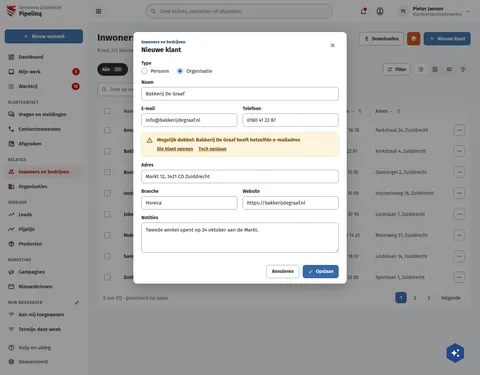
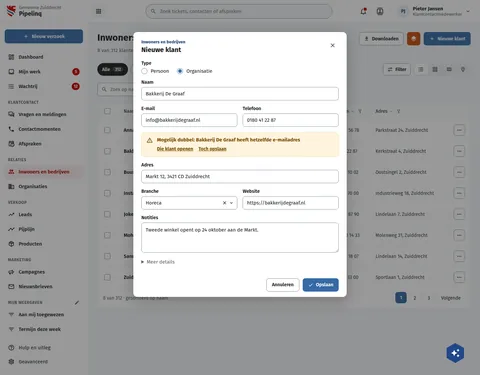
fix(screens): PqKlantNieuw draws Branche as a select and the Meer details disclosure
pl5 PqKlantNieuw 3/7. Live's Branche is a select (an array field: pick
one or more, or type a new one) with a chevron and a clear X; the board
drew a plain text field. Live also keeps the "Meer details" disclosure
under Notities. Users keep both, so the board draws them. The select
follows the optional selects on DqNieuweZaakDubbel (clear X, chevron).
Height unchanged (1124).

Assisted-by: ClaudeCode:claude-opus-5-5

Changed region(s): [[0.25, 0.704, 0.75, 0.792], [0.2812, 0.6747, 0.375, 0.704]]

diff --git a/preview/screens/boards/PqKlantNieuw.html b/preview/screens/boards/PqKlantNieuw.html
@@ -338,8 +338,9 @@ a{color:var(--sc-primary, #3669a5)}a:hover{color:var(--sc-primary-deep, #234a78)
           </div>
         </div>
         <div style="display: flex; flex-direction: column; gap: 6px; min-width: 0"><label for="pq-nc-address" style="font-size: 14px; font-weight: 600">Adres</label><input id="pq-nc-address" type="text" value="Markt 12, 3421 CD Zuiddrecht" placeholder="" style="width: 100%; height: 40px; box-sizing: border-box; padding: 0 12px; border: 1px solid var(--sc-work-field, #828a95); border-radius: 8px; font: 400 15px var(--sc-font, 'Fira Sans'), sans-serif; color: var(--sc-work-ink, #1b1c1d)"></div>
-        <div style="display: grid; grid-template-columns: repeat(auto-fit, minmax(240px, 1fr)); gap: 16px"><div style="display: flex; flex-direction: column; gap: 6px; min-width: 0"><label for="pq-nc-industry" style="font-size: 14px; font-weight: 600">Branche</label><input id="pq-nc-industry" type="text" value="Horeca" placeholder="" style="width: 100%; height: 40px; box-sizing: border-box; padding: 0 12px; border: 1px solid var(--sc-work-field, #828a95); border-radius: 8px; font: 400 15px var(--sc-font, 'Fira Sans'), sans-serif; color: var(--sc-work-ink, #1b1c1d)"></div><div style="display: flex; flex-direction: column; gap: 6px; min-width: 0"><label for="pq-nc-website" style="font-size: 14px; font-weight: 600">Website</label><input id="pq-nc-website" type="url" value="https://bakkerijdegraaf.nl" placeholder="" style="width: 100%; height: 40px; box-sizing: border-box; padding: 0 12px; border: 1px solid var(--sc-work-field, #828a95); border-radius: 8px; font: 400 15px var(--sc-font, 'Fira Sans'), sans-serif; color: var(--sc-work-ink, #1b1c1d)"></div></div>
+        <div style="display: grid; grid-template-columns: repeat(auto-fit, minmax(240px, 1fr)); gap: 16px"><div style="display: flex; flex-direction: column; gap: 6px; min-width: 0"><label id="pq-nc-industry-label" for="pq-nc-industry" style="font-size: 14px; font-weight: 600">Branche</label><div style="position: relative"><span id="pq-nc-industry" role="combobox" aria-expanded="false" aria-labelledby="pq-nc-industry-label" style="box-sizing: border-box; width: 100%; height: 40px; border: 1px solid var(--sc-work-field, #828a95); border-radius: 8px; background: #ffffff; font: 400 15px var(--sc-font, 'Fira Sans'), sans-serif; color: var(--sc-work-ink, #1b1c1d); display: flex; align-items: center; gap: 8px; padding: 0 56px 0 12px"><span style="min-width: 0">Horeca</span></span><button type="button" aria-label="Selectie wissen" style="position: absolute; right: 28px; top: 10px; width: 20px; height: 20px; display: inline-flex; align-items: center; justify-content: center; border: 0; background: transparent; color: var(--sc-work-ink, #1b1c1d); padding: 0"><svg width="16" height="16" viewbox="0 0 24 24" fill="currentColor" aria-hidden="true"><path d="M19,6.41L17.59,5L12,10.59L6.41,5L5,6.41L10.59,12L5,17.59L6.41,19L12,13.41L17.59,19L19,17.59L13.41,12L19,6.41Z"></path></svg></button><span aria-hidden="true" style="position: absolute; right: 10px; top: 12px; display: inline-flex; color: var(--sc-work-ink, #1b1c1d)"><svg width="16" height="16" viewbox="0 0 24 24" fill="currentColor" aria-hidden="true"><path d="M7.41,8.58L12,13.17L16.59,8.58L18,10L12,16L6,10L7.41,8.58Z"></path></svg></span></div></div><div style="display: flex; flex-direction: column; gap: 6px; min-width: 0"><label for="pq-nc-website" style="font-size: 14px; font-weight: 600">Website</label><input id="pq-nc-website" type="url" value="https://bakkerijdegraaf.nl" placeholder="" style="width: 100%; height: 40px; box-sizing: border-box; padding: 0 12px; border: 1px solid var(--sc-work-field, #828a95); border-radius: 8px; font: 400 15px var(--sc-font, 'Fira Sans'), sans-serif; color: var(--sc-work-ink, #1b1c1d)"></div></div>
         <div style="display: flex; flex-direction: column; gap: 6px; min-width: 0"><label for="pq-nc-notes" style="font-size: 14px; font-weight: 600">Notities</label><textarea id="pq-nc-notes" rows="3" style="width: 100%; box-sizing: border-box; padding: 10px 12px; border: 1px solid var(--sc-work-field, #828a95); border-radius: 8px; font: 400 15px/1.5 var(--sc-font, 'Fira Sans'), sans-serif; color: var(--sc-work-ink, #1b1c1d); resize: vertical">Tweede winkel opent op 24 oktober aan de Markt.</textarea></div>
+        <details style="font: 400 15px var(--sc-font, 'Fira Sans'), sans-serif; color: var(--sc-work-muted, #5e6168)"><summary style="cursor: pointer; line-height: 24px">Meer details</summary></details>
       </div>
       <div style="display: flex; flex-wrap: wrap; justify-content: flex-end; align-items: center; gap: 10px; padding: 16px 24px; border-top: 1px solid var(--sc-work-soft, #eef0f3)">
         <button type="button" style="height: 40px; padding: 0 16px; border: 1px solid var(--sc-work-field, #828a95); border-radius: 8px; background: #ffffff; font: 600 14px var(--sc-font, 'Fira Sans'), sans-serif; color: var(--sc-work-ink, #1b1c1d)">Annuleren</button>

diff --git a/screens-src/zuiddrecht/PqKlantNieuw.dc.html b/screens-src/zuiddrecht/PqKlantNieuw.dc.html
@@ -113,8 +113,9 @@ a{color:#3669a5}a:hover{color:#234a78}
           </div>
         </div>
         <div style="display: flex; flex-direction: column; gap: 6px; min-width: 0"><label for="pq-nc-address" style="font-size: 14px; font-weight: 600">Adres</label><input id="pq-nc-address" type="text" value="Markt 12, 3421 CD Zuiddrecht" placeholder="" style="width: 100%; height: 40px; box-sizing: border-box; padding: 0 12px; border: 1px solid #828a95; border-radius: 8px; font: 400 15px 'Fira Sans', sans-serif; color: #1b1c1d"></div>
-        <div style="display: grid; grid-template-columns: repeat(auto-fit, minmax(240px, 1fr)); gap: 16px"><div style="display: flex; flex-direction: column; gap: 6px; min-width: 0"><label for="pq-nc-industry" style="font-size: 14px; font-weight: 600">Branche</label><input id="pq-nc-industry" type="text" value="Horeca" placeholder="" style="width: 100%; height: 40px; box-sizing: border-box; padding: 0 12px; border: 1px solid #828a95; border-radius: 8px; font: 400 15px 'Fira Sans', sans-serif; color: #1b1c1d"></div><div style="display: flex; flex-direction: column; gap: 6px; min-width: 0"><label for="pq-nc-website" style="font-size: 14px; font-weight: 600">Website</label><input id="pq-nc-website" type="url" value="https://bakkerijdegraaf.nl" placeholder="" style="width: 100%; height: 40px; box-sizing: border-box; padding: 0 12px; border: 1px solid #828a95; border-radius: 8px; font: 400 15px 'Fira Sans', sans-serif; color: #1b1c1d"></div></div>
+        <div style="display: grid; grid-template-columns: repeat(auto-fit, minmax(240px, 1fr)); gap: 16px"><div style="display: flex; flex-direction: column; gap: 6px; min-width: 0"><label id="pq-nc-industry-label" for="pq-nc-industry" style="font-size: 14px; font-weight: 600">Branche</label><div style="position: relative"><span id="pq-nc-industry" role="combobox" aria-expanded="false" aria-labelledby="pq-nc-industry-label" style="box-sizing: border-box; width: 100%; height: 40px; border: 1px solid #828a95; border-radius: 8px; background: #ffffff; font: 400 15px 'Fira Sans', sans-serif; color: #1b1c1d; display: flex; align-items: center; gap: 8px; padding: 0 56px 0 12px"><span style="min-width: 0">Horeca</span></span><button type="button" aria-label="Selectie wissen" style="position: absolute; right: 28px; top: 10px; width: 20px; height: 20px; display: inline-flex; align-items: center; justify-content: center; border: 0; background: transparent; color: #1b1c1d; padding: 0"><svg width="16" height="16" viewBox="0 0 24 24" fill="currentColor" aria-hidden="true"><path d="M19,6.41L17.59,5L12,10.59L6.41,5L5,6.41L10.59,12L5,17.59L6.41,19L12,13.41L17.59,19L19,17.59L13.41,12L19,6.41Z"></path></svg></button><span aria-hidden="true" style="position: absolute; right: 10px; top: 12px; display: inline-flex; color: #1b1c1d"><svg width="16" height="16" viewBox="0 0 24 24" fill="currentColor" aria-hidden="true"><path d="M7.41,8.58L12,13.17L16.59,8.58L18,10L12,16L6,10L7.41,8.58Z"></path></svg></span></div></div><div style="display: flex; flex-direction: column; gap: 6px; min-width: 0"><label for="pq-nc-website" style="font-size: 14px; font-weight: 600">Website</label><input id="pq-nc-website" type="url" value="https://bakkerijdegraaf.nl" placeholder="" style="width: 100%; height: 40px; box-sizing: border-box; padding: 0 12px; border: 1px solid #828a95; border-radius: 8px; font: 400 15px 'Fira Sans', sans-serif; color: #1b1c1d"></div></div>
         <div style="display: flex; flex-direction: column; gap: 6px; min-width: 0"><label for="pq-nc-notes" style="font-size: 14px; font-weight: 600">Notities</label><textarea id="pq-nc-notes" rows="3" style="width: 100%; box-sizing: border-box; padding: 10px 12px; border: 1px solid #828a95; border-radius: 8px; font: 400 15px/1.5 'Fira Sans', sans-serif; color: #1b1c1d; resize: vertical">Tweede winkel opent op 24 oktober aan de Markt.</textarea></div>
+        <details style="font: 400 15px 'Fira Sans', sans-serif; color: #5e6168"><summary style="cursor: pointer; line-height: 24px">Meer details</summary></details>
       </div>
       <div style="display: flex; flex-wrap: wrap; justify-content: flex-end; align-items: center; gap: 10px; padding: 16px 24px; border-top: 1px solid #eef0f3">
         <button type="button" style="height: 40px; padding: 0 16px; border: 1px solid #828a95; border-radius: 8px; background: #ffffff; font: 600 14px 'Fira Sans', sans-serif; color: #1b1c1d">Annuleren</button>
